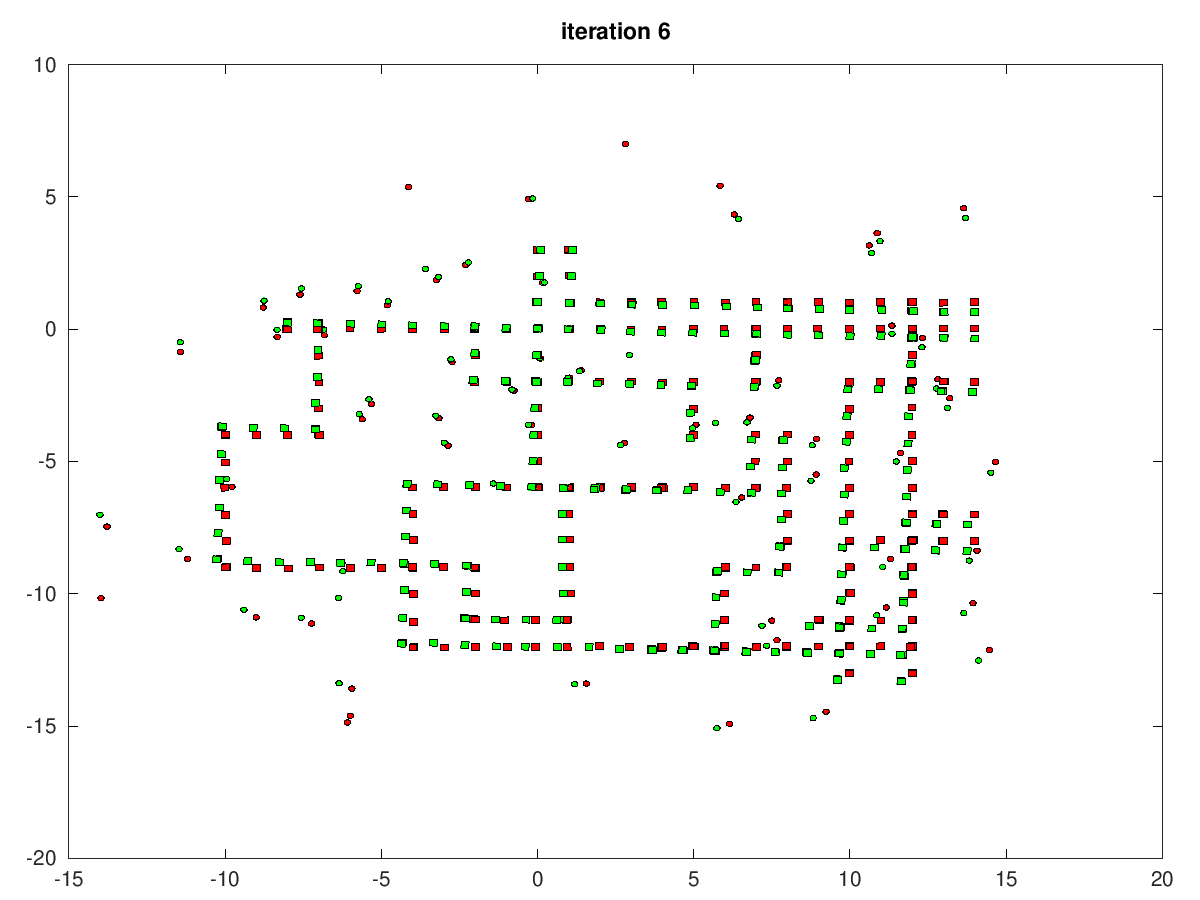
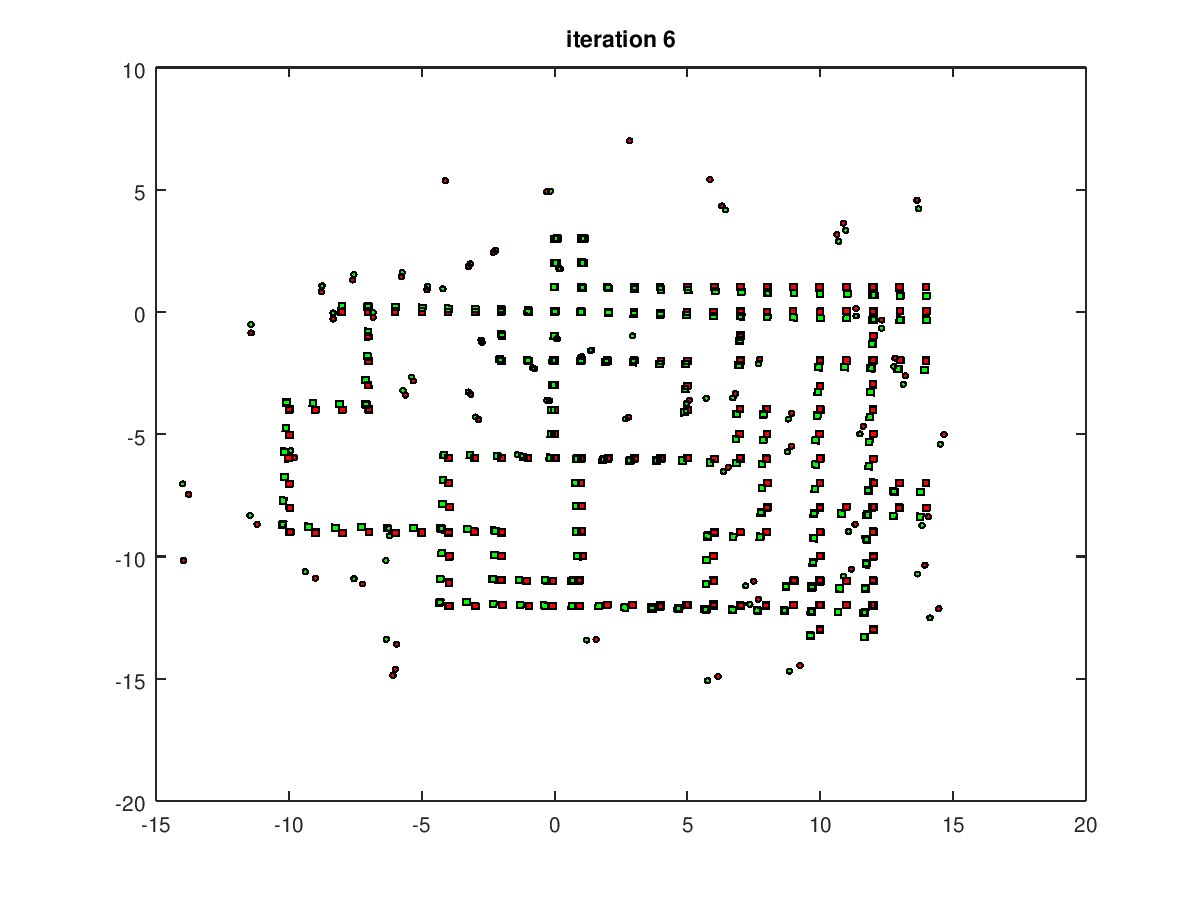
last commit

diff --git a/tools_emanuele/visualization/make_gif.m b/tools_emanuele/visualization/make_gif.m
@@ -10,11 +10,9 @@ function make_gif(poses_gt,landmarks_gt,XR_history,XL_history,land_IDs,pose_IDs)
 
   end
 
-  graphics_toolkit ("gnuplot");
   for i=1:length_history
     disp(["creating gif: img ",num2str(i),"/",num2str(length_history)])
     fig = figure(3);
-    set(fig,'visible','off');
     drawLandmarks_ema(landmarks_gt, 'red', 'fill');
     hold on;
     drawLandmarks_ema(landmarks_history(i,:), 'green', 'fill');
@@ -49,7 +47,6 @@ function make_gif(poses_gt,landmarks_gt,XR_history,XL_history,land_IDs,pose_IDs)
     end
   end
   currentFolder = pwd;
-  graphics_toolkit ("fltk");
   disp(["gif saved in ",currentFolder,FileName])
 
 

diff --git a/main.m b/main.m
@@ -35,7 +35,7 @@ landmark_associations = landmark_associations(pose_IDs,observations,land_IDs);
 pose_associations = pose_associations(transitions,pose_IDs,land_IDs);
 
 % compute certainty of measurements by looking at the groundtruth and the measurements
-omega_range = compute_range_omega(landmark_associations,landmarks_gt, poses_gt);
+omega_range = compute_range_omega(landmark_associations,landmarks_gt, poses_gt)
 omega_pose = compute_pose_omega(pose_associations, poses_gt);
 
 % total least squares
